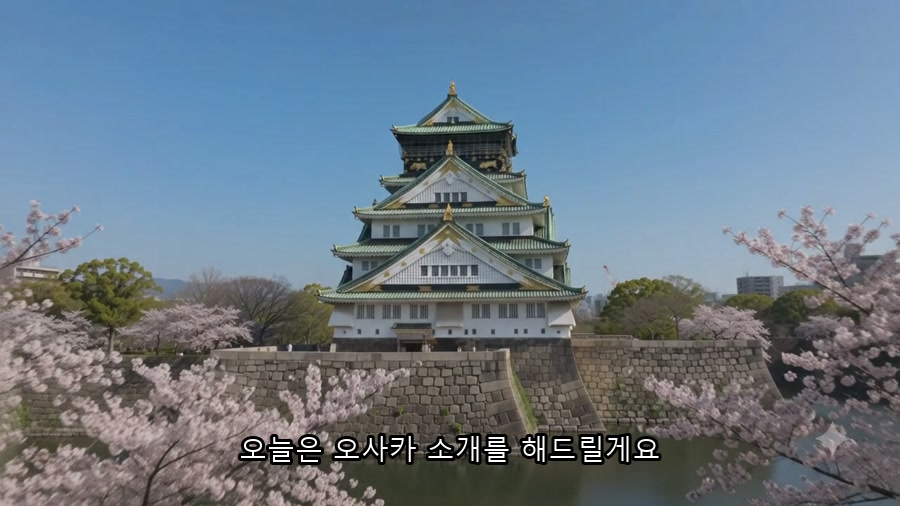
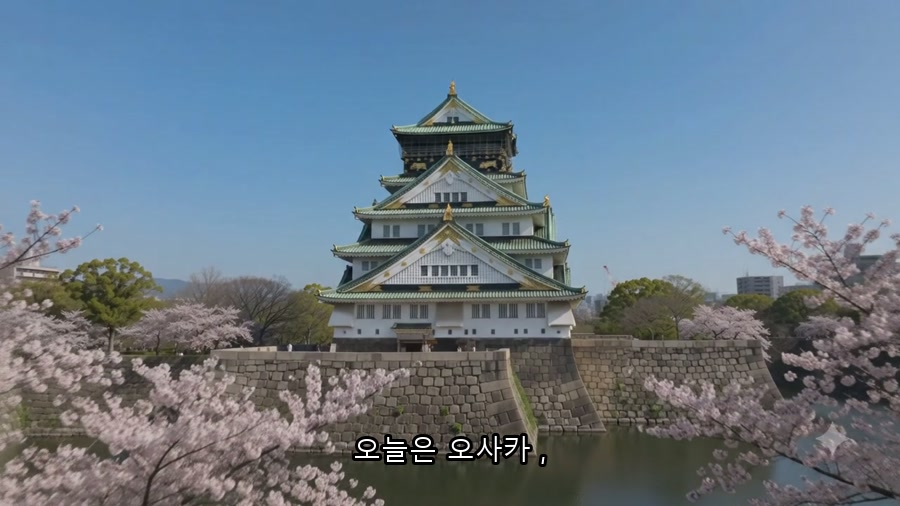
feat(sfc-demo): 프레임을 카드 자막과 일치 + 점선제거 + JSON데모안내 + 큐캡처 랜덤
- 3컷 순환: f1 '오늘은 오사카,'(합치기A) / f2 '소개를 해드릴게요'(합치기B) / f3 '역시 오사카 문어빵이 짱!'(직접수정 전 틀린자막)
- videoShell 점선 테두리 제거
- doExport 오버라이드: 복사/저장/내보내기 흐름은 유지, 최종 출력만 '데모에서 제공안됨' 토스트
- setManualCuePoint 오버라이드: 영상 없어 [/] 큐캡처 시 랜덤 시간 적용

Changed region(s): [[0.2489, 0.8597, 0.7467, 0.919]]

diff --git a/public/clones/subtitle-fix-checker/loaded_preview.html b/public/clones/subtitle-fix-checker/loaded_preview.html
@@ -4383,22 +4383,22 @@
         }
       }
     </style>
-    <!-- 데모: 오사카 4컷(자막 burn-in) 순환 + 드롭 안내 숨김 + 목업 카드 시드 -->
+    <!-- 데모: 카드(합치기A/B·직접수정)에 맞춘 3컷 순환 + 드롭안내 숨김 + 점선 테두리 제거 -->
     <style>
       .videoShell {
         background-image: url("/clones/subtitle-fix-checker/demo/f1.jpg") !important;
         background-size: cover !important;
         background-position: center !important;
-        animation: sfcReel 12s steps(1) infinite !important;
+        border: 0 !important;
+        animation: sfcReel 9s steps(1) infinite !important;
       }
       .videoShell .placeholder { display: none !important; }
       .videoShell .dropOverlay { display: none !important; }
       @keyframes sfcReel {
-        0%   { background-image: url("/clones/subtitle-fix-checker/demo/f1.jpg"); }
-        25%  { background-image: url("/clones/subtitle-fix-checker/demo/f2.jpg"); }
-        50%  { background-image: url("/clones/subtitle-fix-checker/demo/f3.jpg"); }
-        75%  { background-image: url("/clones/subtitle-fix-checker/demo/f4.jpg"); }
-        100% { background-image: url("/clones/subtitle-fix-checker/demo/f1.jpg"); }
+        0%    { background-image: url("/clones/subtitle-fix-checker/demo/f1.jpg"); }
+        33.3% { background-image: url("/clones/subtitle-fix-checker/demo/f2.jpg"); }
+        66.6% { background-image: url("/clones/subtitle-fix-checker/demo/f3.jpg"); }
+        100%  { background-image: url("/clones/subtitle-fix-checker/demo/f1.jpg"); }
       }
     </style>
     <script>
@@ -6752,6 +6752,43 @@ ${value}`
       setPauseMode(pauseMode);
       render(true);
       drawWaveform();
+    </script>
+    <!-- 데모 오버라이드: 결과물(JSON 파일/클립보드) 배출만 차단(과정은 그대로) + 영상 없으니 큐 캡처는 랜덤 적용 -->
+    <script>
+      (function () {
+        // 1) JSON 복사/저장 → 내보내기까지 흐름은 유지, 최종 출력만 데모 안내로 대체.
+        try {
+          window.doExport = function () {
+            toast('데모 버전에서는 파일 내보내기가 제공되지 않습니다 🙏', 'toastReview');
+          };
+        } catch (e) { /* no-op */ }
+
+        // 2) 큐 직접수정: 영상이 없어 currentTime=0 → [ / ] 캡처 시 임의(랜덤) 큐 적용.
+        try {
+          window.setManualCuePoint = function (field) {
+            if (activeIndex < 0 || !items[activeIndex]) {
+              toast('먼저 카드를 선택하세요', 'toastReview');
+              showManualCueGuide();
+              return;
+            }
+            var sec = +(Math.random() * 8 + 1).toFixed(3);
+            var it = Object.assign({}, enrich(items[activeIndex]), { manual_cue: true, review_done: false });
+            if (field === 'start') {
+              it.cue_start_seconds = sec; it.cue_start = srtTime(sec);
+              if (it.cue_end_seconds != null && it.cue_end_seconds < sec) { it.cue_end_seconds = sec; it.cue_end = srtTime(sec); }
+              toast(labelFor(activeIndex) + '번 시작큐 ' + cueDisplay(sec) + ' (데모·임의)', 'toastReview');
+            } else {
+              it.cue_end_seconds = sec; it.cue_end = srtTime(sec);
+              if (it.cue_start_seconds != null && it.cue_start_seconds > sec) { it.cue_start_seconds = sec; it.cue_start = srtTime(sec); }
+              toast(labelFor(activeIndex) + '번 끝큐 ' + cueDisplay(sec) + ' (데모·임의)', 'toastReview');
+            }
+            items[activeIndex] = enrich(it);
+            save();
+            render(true);
+            showManualCueGuide();
+          };
+        } catch (e) { /* no-op */ }
+      })();
     </script>
   </body>
 </html>
